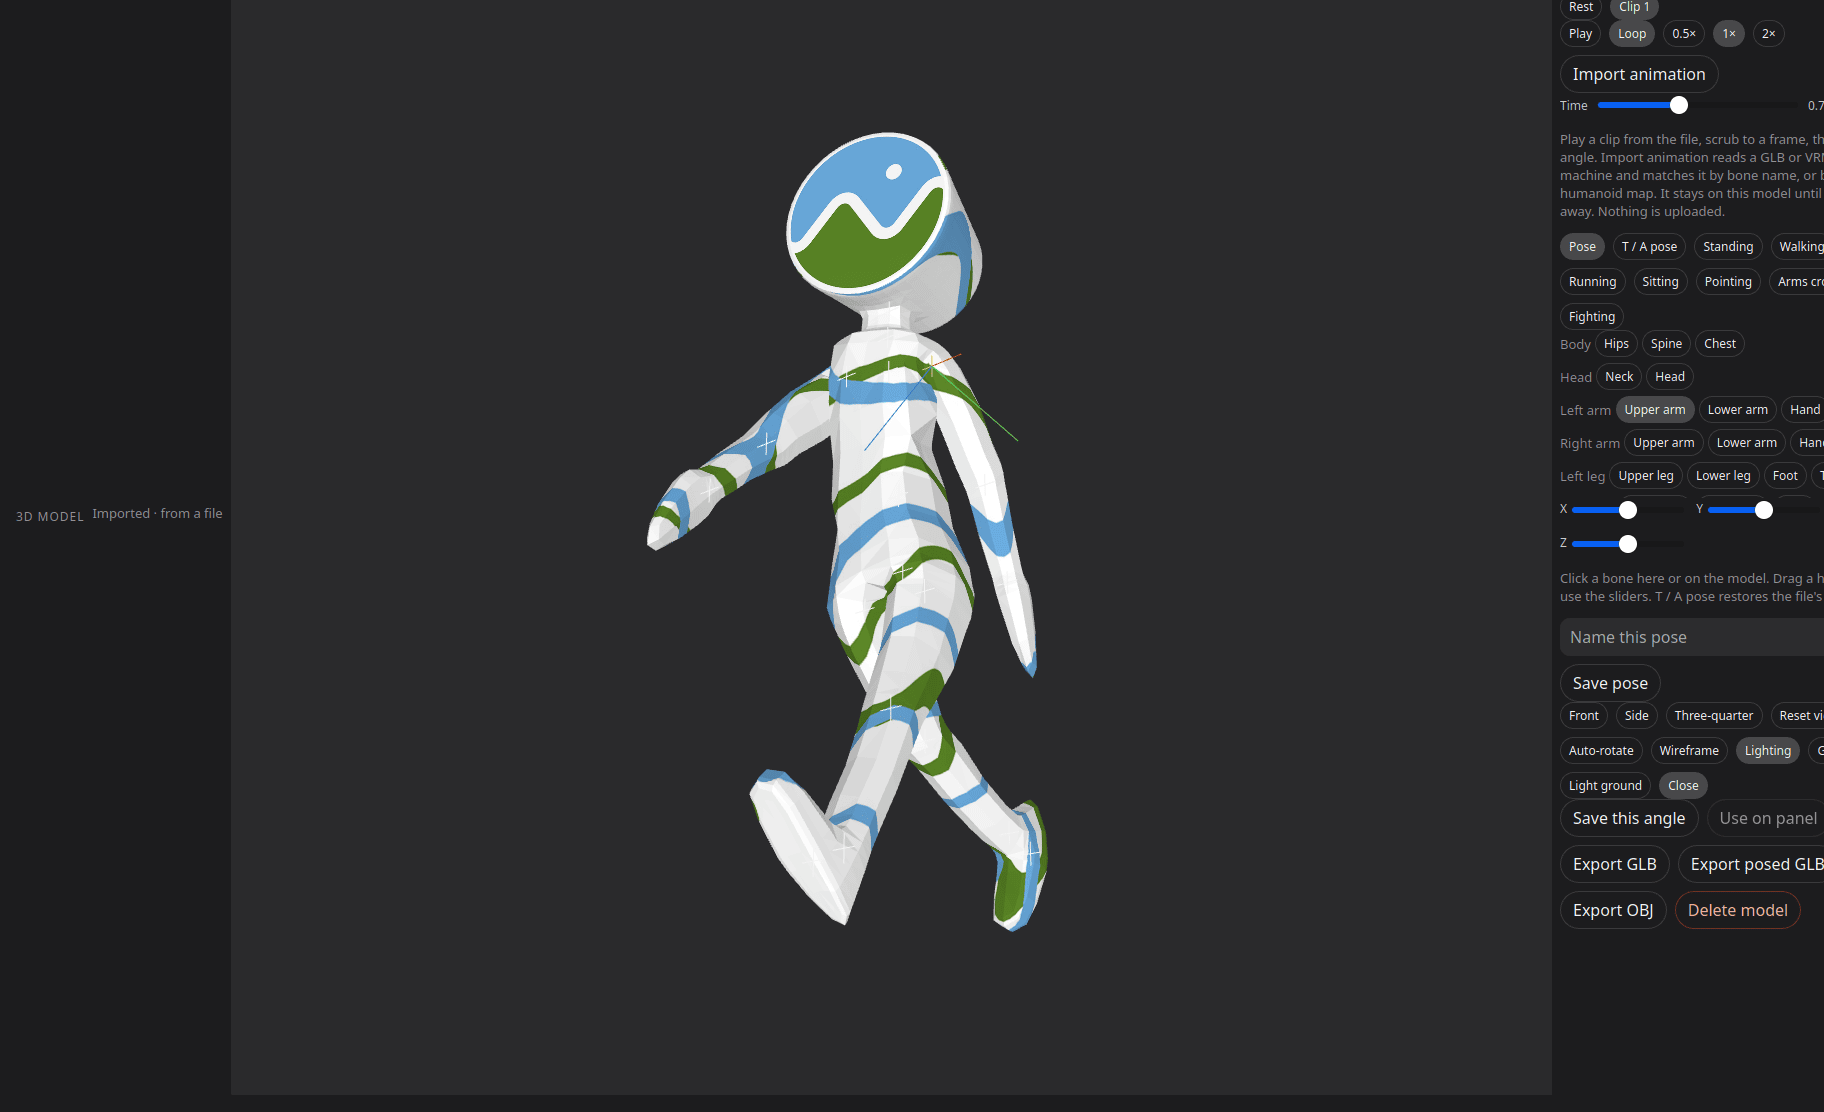
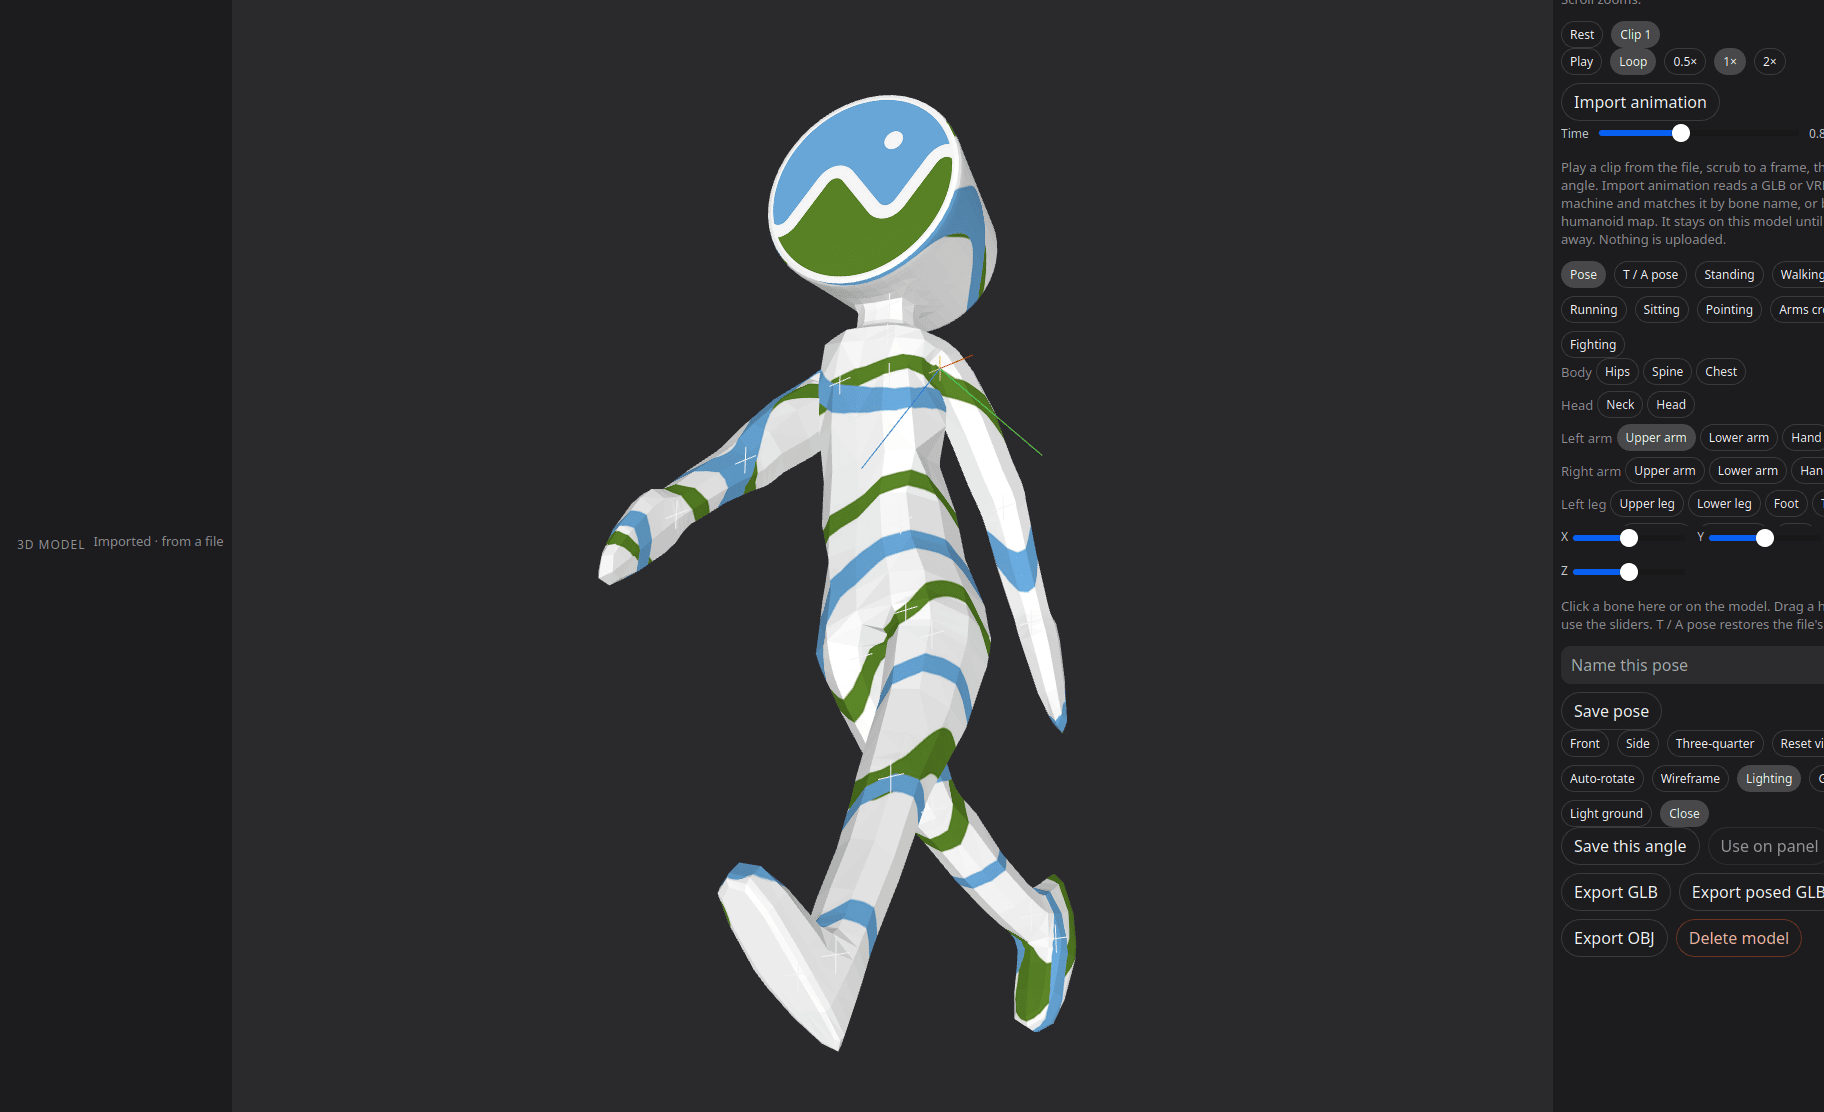
Show the 3D viewer with framed poses, textures, and a walk.
Replace the README 3D shots with a closer viewer, a texture close-up, Joy, a four-pose grid, and CesiumMan paused mid-stride.

Changed region(s): [[0.3125, 0.0612, 0.5938, 0.9478], [0.8438, 0.0, 1.0, 0.8561], [0.0, 0.4586, 0.125, 0.4892]]

diff --git a/README.md b/README.md
@@ -82,52 +82,50 @@ Each character can have a 3D model as well as a portrait. Generate it from a pro
 
 The viewer ships with Koma. It does not load three.js, `<model-viewer>`, or anything else from a CDN, so it works with no network. It draws the model's base color, so a toon texture shows up instead of a flat stand-in. Separate parts are placed where the file puts them. The camera fits the model's height, width, and depth, so a tall character or a long animal stays in frame. Drag orbits freely, including upside down. Shift-drag pans, Alt-drag rolls, and scroll zooms. Reset view puts the camera back. Auto-rotate spins the model until you turn it off. Wireframe and Lighting can be on together or one at a time. Grid draws a floor under the figure. Light ground switches the backdrop. Large view fills the window; Close, or Escape, leaves it. On a desktop that allows it, Large view also asks the window to go fullscreen.
 
-Sendagaya Shino (CC0) in the viewer, with the camera and display controls beside the model.
+Sendagaya Shino (CC0) in the viewer. Grid and lighting are on, and the camera and display controls sit beside the model.
 
 <p align="center">
   <img src="docs/3d-viewer.png" width="900" alt="3D viewer on Sendagaya Shino, three-quarter view, with camera and display controls">
+</p>
+
+### Textures
+
+The viewer draws the texture packed in the file, so a toon model keeps its painted face and clothes.
+
+The same model, closer. The sailor uniform and the face shading are the texture from the file.
+
+<p align="center">
+  <img src="docs/3d-texture.png" width="420" alt="Close view of Sendagaya Shino's painted face and sailor uniform">
 </p>
 
 ### Expressions
 
 Expression buttons add the model's morph targets (a VRM blink or a vowel shape). An expression can stay on while the pose changes.
 
-Joy on the same model. The expression stays on while you orbit.
+Joy. The eyes close and the mouth turns up. The pose stays put.
 
 <p align="center">
-  <img src="docs/3d-expression.png" width="900" alt="Joy expression on Sendagaya Shino in the 3D viewer">
+  <img src="docs/3d-expression.png" width="420" alt="Joy expression on Sendagaya Shino, eyes closed in a smile">
 </p>
 
 ### Posing
 
 Pose mode bends a rigged GLB or VRM. Pick a bone in the list, grouped by body part, or click it on the model, then drag the red, green, and blue handles or move the X, Y, and Z sliders. T / A pose puts back the bind pose stored in the file, which is a T-pose or an A-pose depending on how the model was rigged. Standing, walking, running, sitting, pointing, arms crossed, and fighting stance aim the limbs. VRM files use the humanoid bone map. A rig without that map is matched from bone names such as `LeftUpperArm` or `mixamorig:LeftArm`. Save pose stores the bone rotations and the current expression in the library under that character. Load puts them back. Nothing about posing is uploaded.
 
-Sitting is one of the built-in poses. The presets and the bone list sit beside the model.
+Four poses on Sendagaya Shino. Standing hangs the arms. Sitting folds the knees forward and sets the feet down. Fighting stance steps one leg in and brings the hands up. Pointing reaches one arm out and leaves the other down.
 
 <p align="center">
-  <img src="docs/3d-pose.png" width="900" alt="Sitting pose on Sendagaya Shino, knees bent forward, with the pose presets open">
-</p>
-
-Fighting stance puts one leg forward and the hands up.
-
-<p align="center">
-  <img src="docs/3d-pose-fight.png" width="900" alt="Fighting stance on Sendagaya Shino, front knee bent, hands raised">
-</p>
-
-Pointing reaches one arm out. The other arm stays down.
-
-<p align="center">
-  <img src="docs/3d-pose-point.png" width="900" alt="Pointing pose on Sendagaya Shino, one arm forward">
+  <img src="docs/3d-pose-grid.png" width="900" alt="Sendagaya Shino standing, sitting, in a fighting stance, and pointing">
 </p>
 
 ### Animation
 
 A model that already has animation clips lists them under the viewer. Play and pause, a loop switch, and 0.5×, 1×, and 2× set the speed. The timeline stops on any frame. Save this angle and Use on panel capture that frame, expression included. Import animation opens a GLB or VRM from your machine and plays it on this rig when the bone names match, or when both files share a humanoid bone map. The imported clip is kept for this visit. It is not written back into the model and it is not uploaded. Root travel on a walk is held in place so the figure stays in frame; the legs still move.
 
-Clip 1 paused on the timeline. CesiumMan by Cesium, licensed CC-BY 4.0.
+Clip 1 paused at 0.80 seconds, one step into the walk. CesiumMan by Cesium, licensed CC-BY 4.0.
 
 <p align="center">
-  <img src="docs/3d-animation.png" width="900" alt="CesiumMan walk paused at 0.79 seconds, with the animation timeline open">
+  <img src="docs/3d-animation.png" width="900" alt="CesiumMan walk paused at 0.80 seconds, with the animation timeline open">
 </p>
 
 Save this angle writes a PNG of the posed model, expression included, next to the character's other pictures. It does not upload it. Use on panel copies that picture onto the open panel as a reference, the same way an imported panel reference is used when the panel is drawn. The cast thumbnail is a small copy of the view and is removed with the model. Named poses are rows in the library database, deleted with the character or the project, and they are not sent anywhere. Export GLB and Export OBJ write the model you imported or generated. Export posed GLB writes a new file beside those, with the current pose, expression, and animation frame baked into the vertices. The stored model is left as it was.
